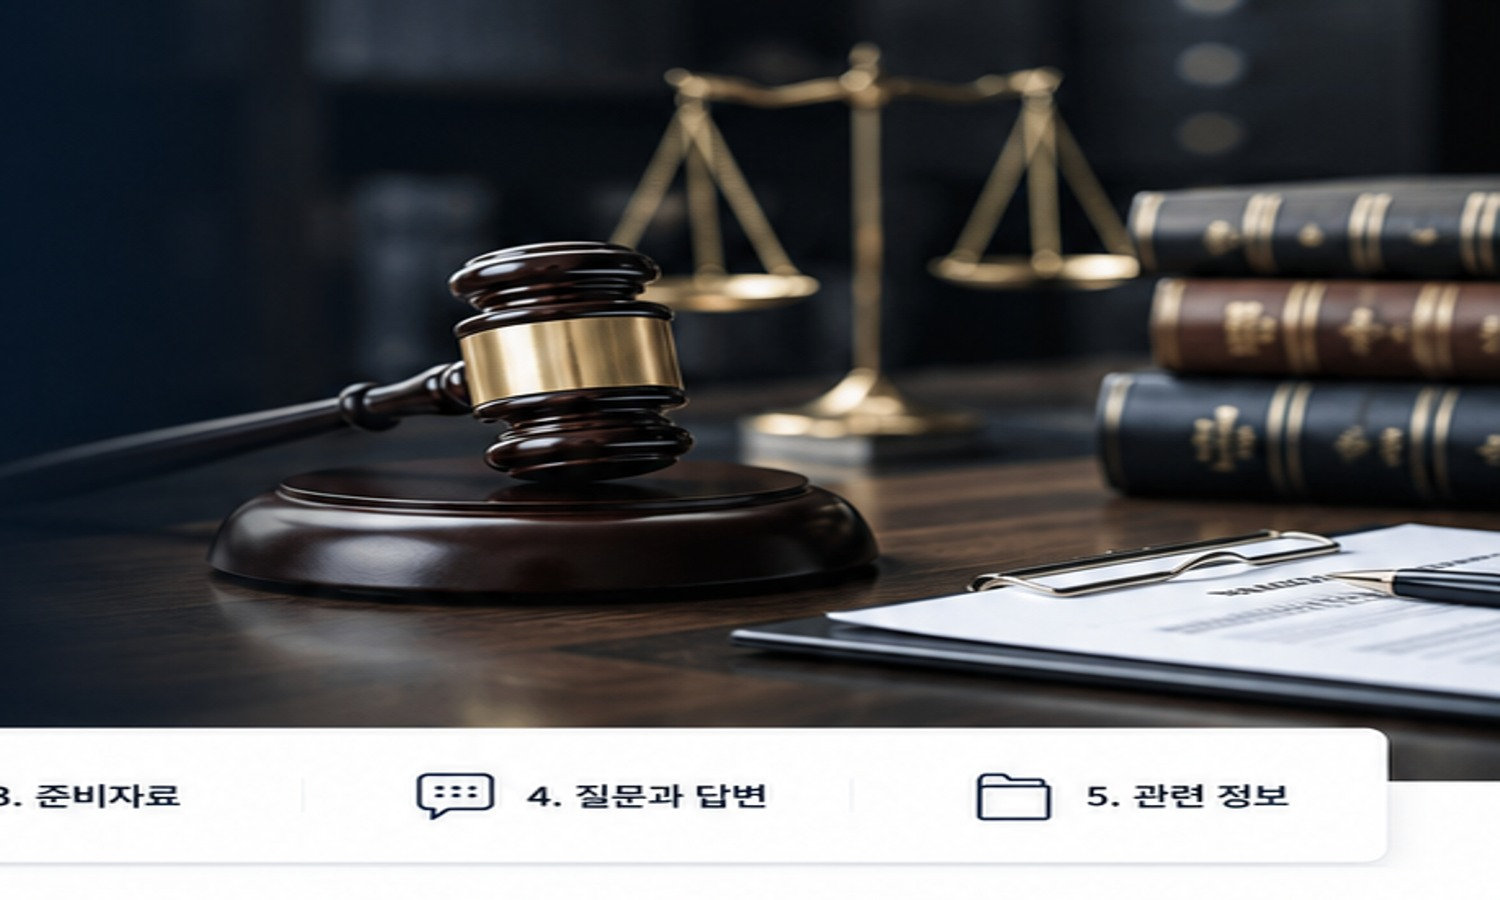
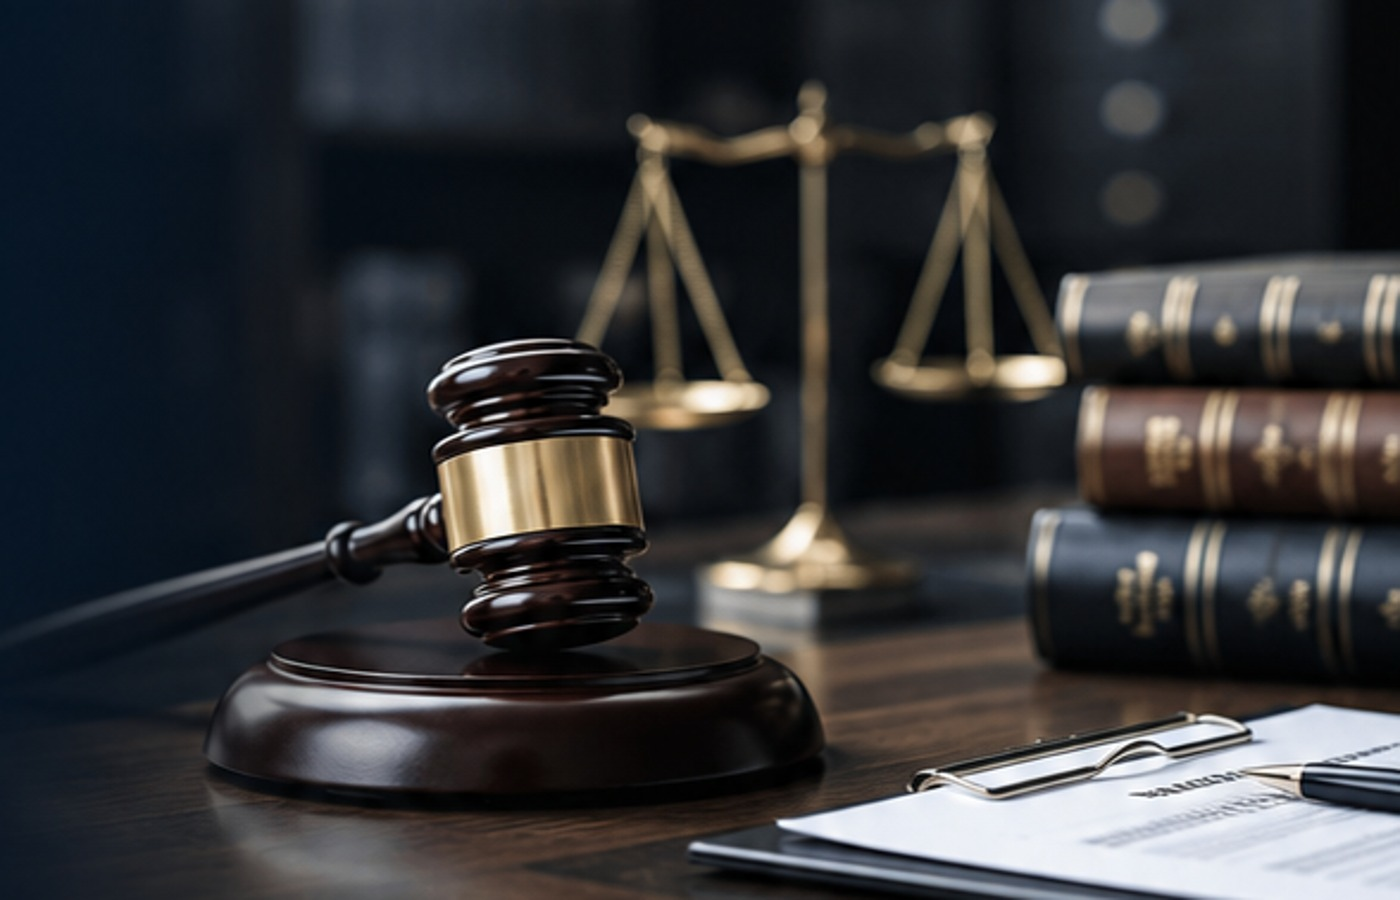
Add files via upload

diff --git a/assets/css/legal-detail.css b/assets/css/legal-detail.css
@@ -4,3 +4,18 @@
 .hero-visual img{width:100%;height:390px;object-fit:cover;object-position:center}
 .content-image img[src$=".jpg"]{width:100%;height:330px;object-fit:cover}
 @media(max-width:620px){.hero-visual img{height:260px}.content-image img[src$=".jpg"]{height:230px}}
+
+/* v4.1 내부페이지 히어로 사진 보정 */
+.hero-visual{
+  aspect-ratio: 4 / 3;
+  min-height: 0;
+}
+.hero-visual img{
+  width:100%;
+  height:100%;
+  object-fit:cover;
+  object-position:center;
+}
+@media(max-width:900px){
+  .hero-visual{display:none}
+}
